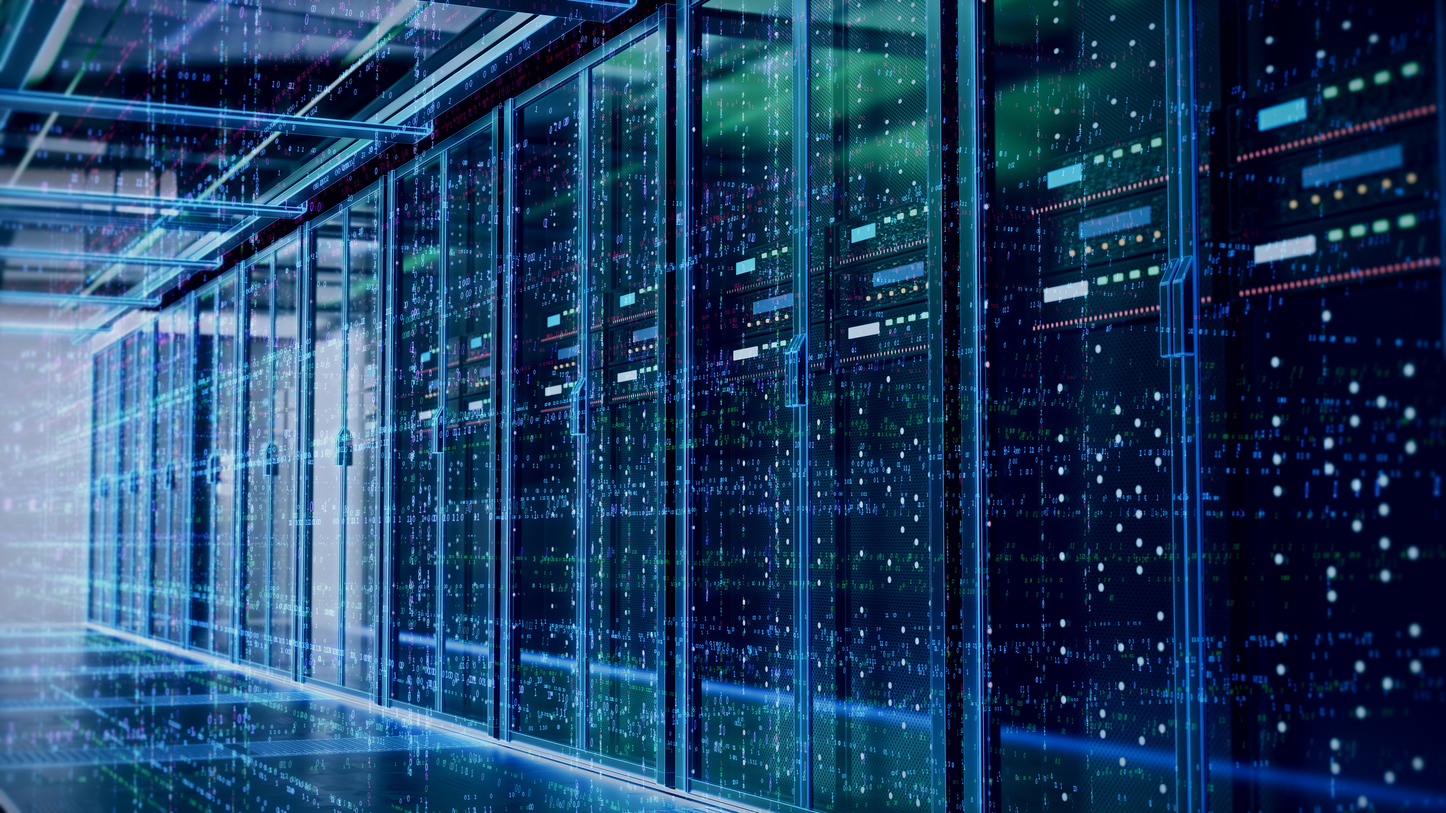
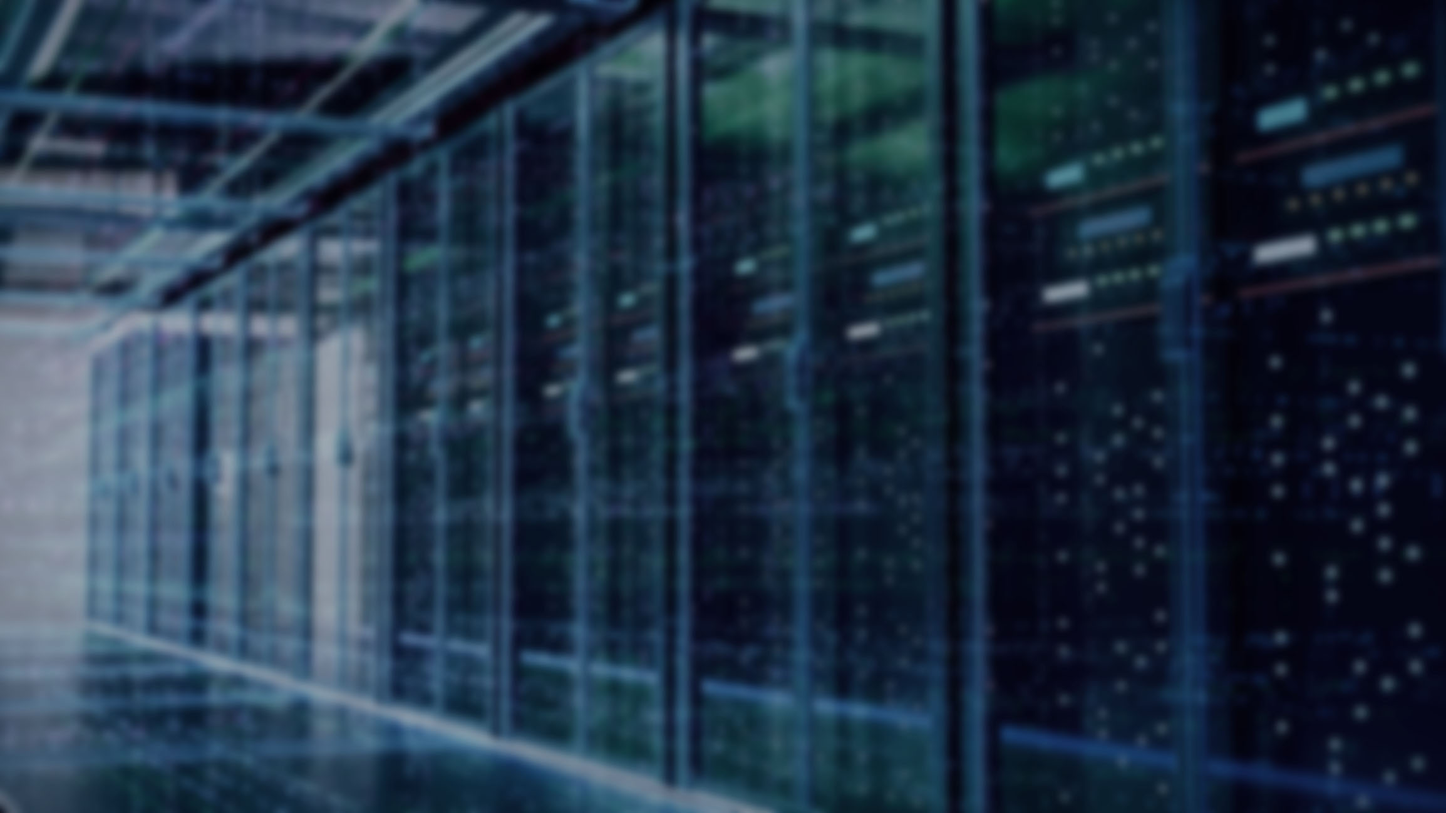
progress

diff --git a/index.html b/index.html
@@ -58,7 +58,7 @@
   <!-- Masthead -->
   <header class="masthead">
     <div class="container h-100">
-      <div class="row h-100 align-items-center justify-content-center text-center">
+      <div class="overflow row h-100 align-items-center justify-content-center text-center">
         <div class="col-lg-10 align-self-end">
           <h1 class="text-uppercase text-white font-weight-bold">Телефония для бизнеса</h1>
         </div>
@@ -106,18 +106,11 @@
     </div>
   </section>
 
-  <!-- Portfolio Section -->
-  <section id="portfolio">
-    <div class="container-fluid p-0">
-      <img class="how" src="img/how.svg" alt="">
-    </div>
-  </section>
-
   <!-- Call to Action Section -->
   <section class="page-section bg-dark text-white">
     <div class="container-fluid text-center">
-      <h2 class="mb-4">Free Download at Start Bootstrap!</h2>
-          <img class="how" src="img/how.svg" alt="">
+      <h2 class="mb-4">Как это работает</h2>
+          <img class="how" src="img/how.png" alt="">
     </div>
   </section>
 

diff --git a/css/creative.css b/css/creative.css
@@ -10664,13 +10664,14 @@ hr.light {
 header.masthead {
   padding-top: 10rem;
   padding-bottom: calc(10rem - 72px);
-  background: -webkit-gradient(linear, left top, left bottom, from(rgba(92, 77, 66, 0.8)), to(rgba(92, 77, 66, 0.8))), url("../img/bg-masthead.jpg");
-  background: linear-gradient(to bottom, rgba(92, 77, 66, 0.8) 0%, rgba(92, 77, 66, 0.8) 100%), url("../img/bg-masthead.jpg");
+  background: -webkit-gradient(linear, left top, left bottom, from(rgba(92, 77, 66, 0.0)), to(rgba(92, 77, 66, 0.0))), url("../img/bg-masthead.jpg");
+  background: linear-gradient(to bottom, rgba(92, 77, 66, 0.0) 0%, rgba(92, 77, 66, 0.0) 100%), url("../img/bg-masthead.jpg");
   background-position: center;
   background-repeat: no-repeat;
   background-attachment: scroll;
   background-size: cover;
 }
+
 
 header.masthead h1 {
   font-size: 2.25rem;
